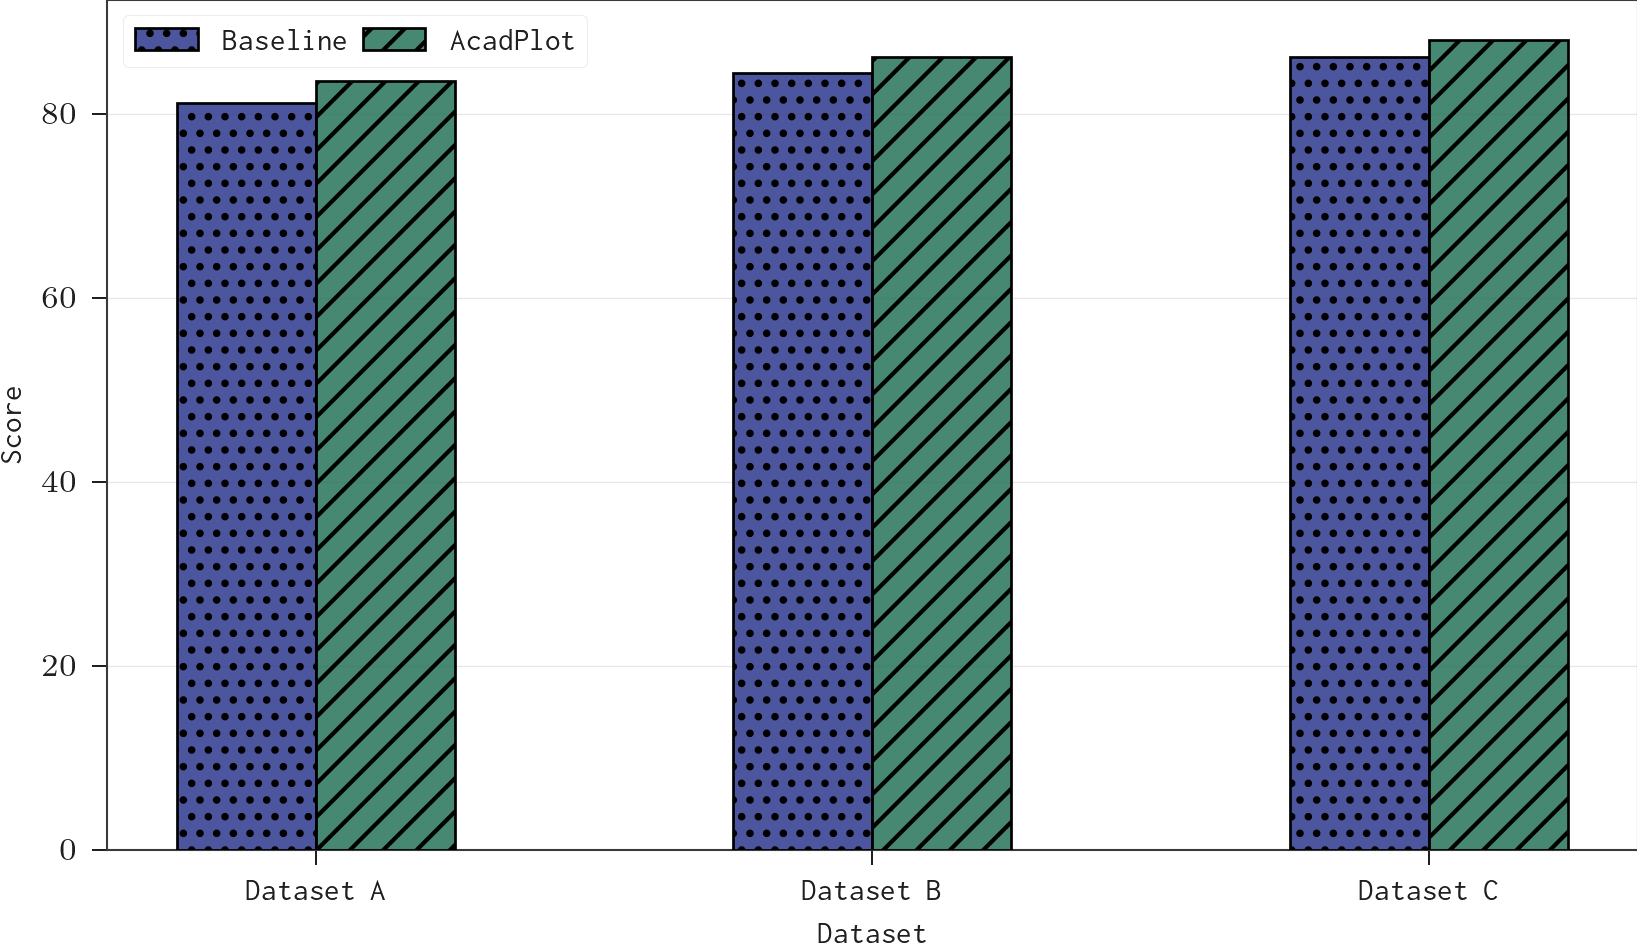
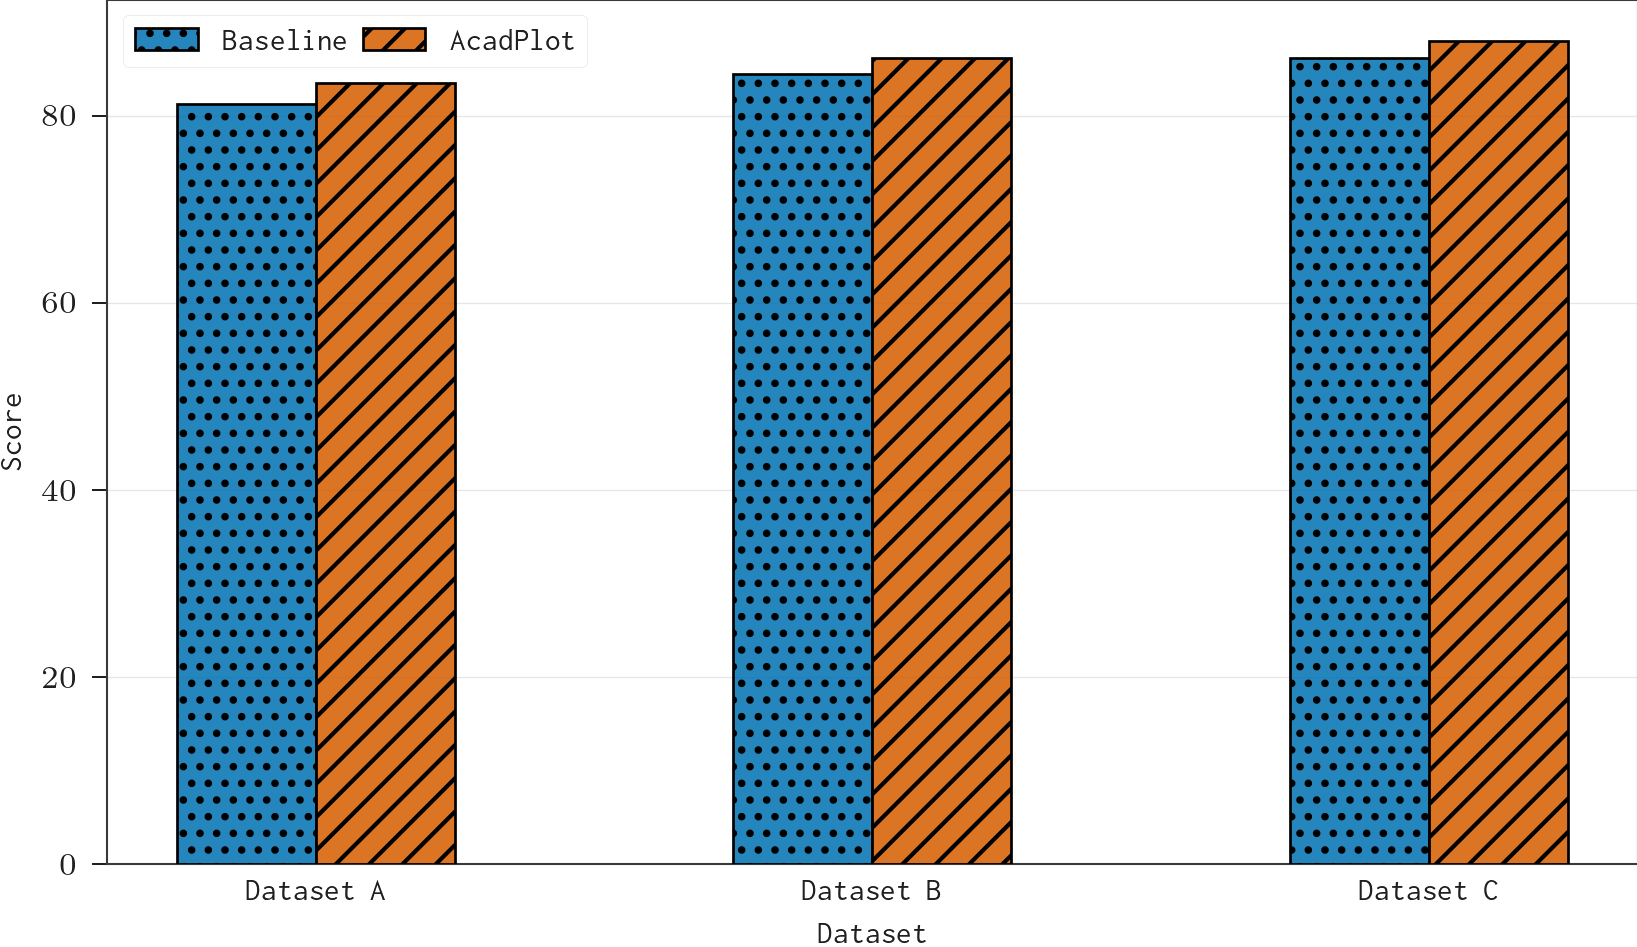
feat(bar): remove x-ticks

diff --git a/src/acadplot/bar.py b/src/acadplot/bar.py
@@ -44,6 +44,12 @@ def _resolve_text_sizes(style, font_size, label_size, tick_size, legend_size):
     return font_size, label_size, tick_size, legend_size
 
 
+def _apply_bar_axis_style(ax, tick_size: float) -> None:
+    ax.tick_params(axis="both", labelsize=tick_size)
+    apply_axis_style(ax)
+    ax.tick_params(axis="x", length=0)
+
+
 def _parse_bar(bar):
     if len(bar) == 5:
         x, y, color_key, pattern_key, bar_label = bar
@@ -186,8 +192,7 @@ def plot_bar(
         ax.set_xticks(bars[0][0])
         ax.set_xticklabels(xticklabels, rotation=rotation, fontsize=tick_size)
 
-    ax.tick_params(axis="both", labelsize=tick_size)
-    apply_axis_style(ax)
+    _apply_bar_axis_style(ax, tick_size)
 
     if fname:
         save(fig, fname, close=False)
@@ -269,8 +274,7 @@ def plot_grouped_bar(
     ax.set_xticklabels([g[0] for g in groups], rotation=rotation, fontsize=tick_size)
 
     _add_legend(ax, location, legend_size, ncols, columnspacing, legend_outside)
-    ax.tick_params(axis="both", labelsize=tick_size)
-    apply_axis_style(ax)
+    _apply_bar_axis_style(ax, tick_size)
 
     if fname:
         save(fig, fname, close=False)
@@ -374,8 +378,7 @@ def plot_stacked_bar(
     ax.set_xticklabels(categories, rotation=rotation, fontsize=tick_size)
 
     _add_legend(ax, location, legend_size, ncols, columnspacing, legend_outside)
-    ax.tick_params(axis="both", labelsize=tick_size)
-    apply_axis_style(ax)
+    _apply_bar_axis_style(ax, tick_size)
 
     if fname:
         save(fig, fname, close=False)

diff --git a/tests/test_styles.py b/tests/test_styles.py
@@ -318,6 +318,7 @@ def test_explicit_bar_overrides_and_default_grid():
     assert ax.get_axisbelow()
     assert any(line.get_visible() for line in ax.get_ygridlines())
     assert not any(line.get_visible() for line in ax.get_xgridlines())
+    assert all(tick.tick1line.get_markersize() == 0 for tick in ax.xaxis.majorTicks)
     plt.close(fig)
 
 

diff --git a/examples/generate_examples.py b/examples/generate_examples.py
@@ -139,7 +139,7 @@ def generate_bar_examples() -> None:
 
 def generate_pattern_bar_example() -> None:
     configure_plot_style(
-        layout="paper-1col", theme="classic", latex=True, text_color="dark"
+        layout="paper-1col", theme="colorblind", latex=True, text_color="dark"
     )
     fig, _ = plot_grouped_bar(
         [
